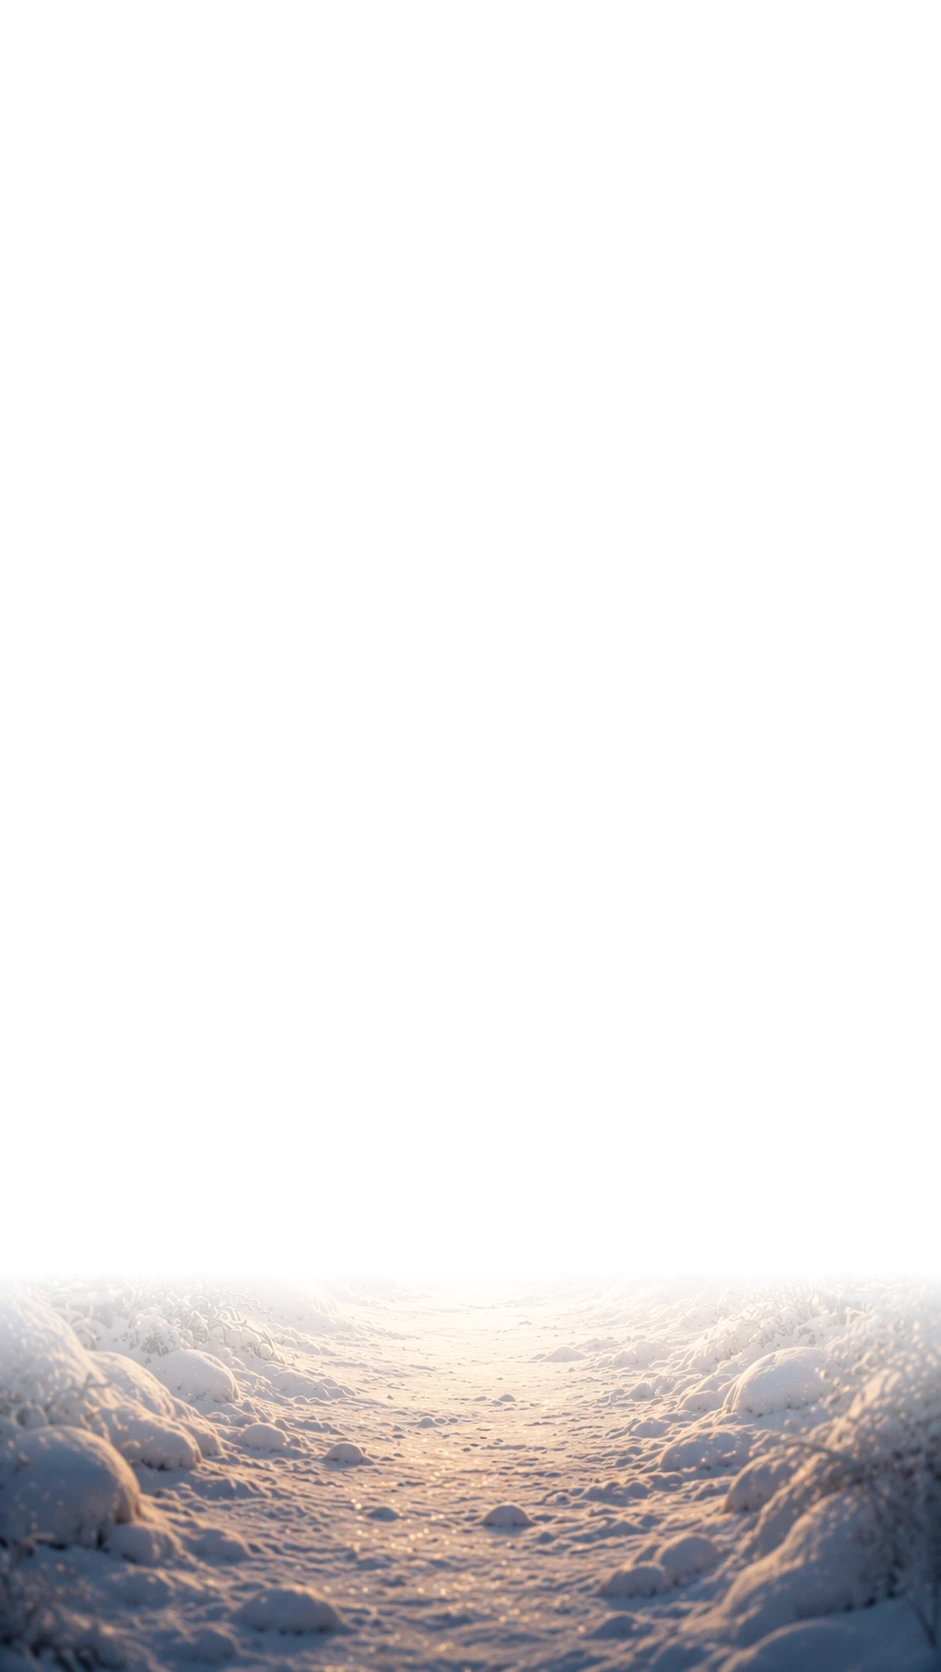
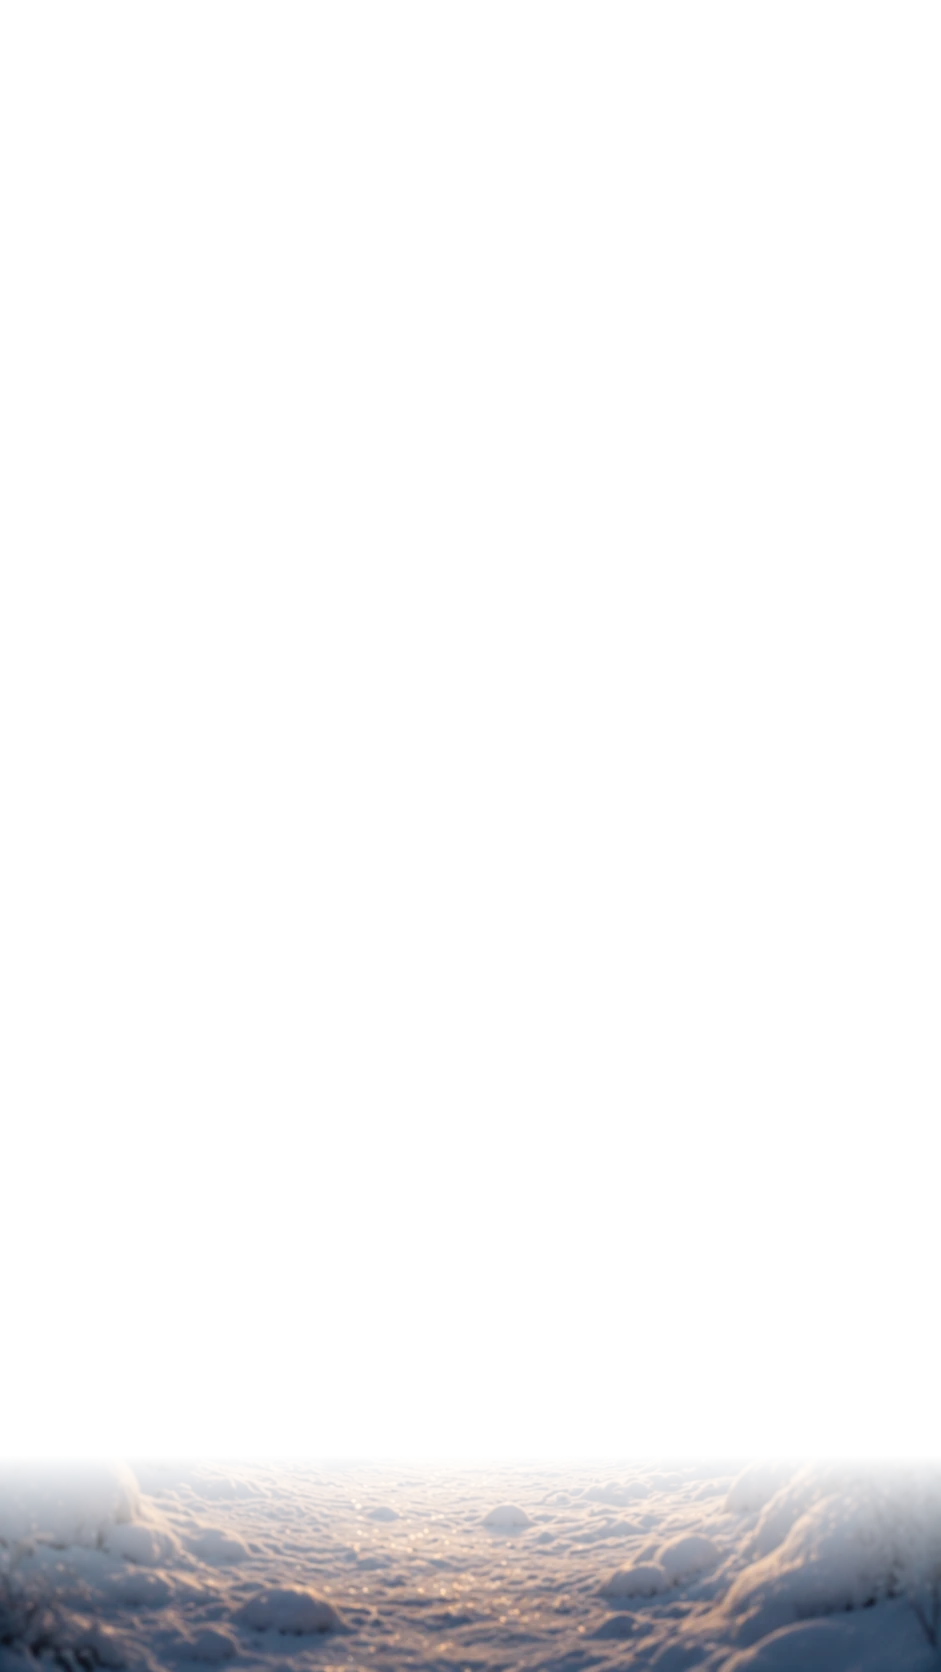
Mobile splash: reveal the couple + fix the hand-off jump
- Enlarged/lowered the tall frame opening so the couple is framed in it
  instead of hidden behind the foliage; pulled the near-snow layer down
- Hero now uses a responsive background (wide desktop / tall mobile) matching
  the splash, so the splash->home transition no longer swaps images (no jump)

Changed region(s): [[0.0, 0.7775, 1.0, 0.9641]]

diff --git a/components/Hero.tsx b/components/Hero.tsx
@@ -20,11 +20,19 @@ export default function Hero() {
 
   return (
     <section ref={ref} id="top" className="relative h-svh w-full overflow-hidden">
+      {/* Responsive background — must match the splash's (wide desktop / tall
+          mobile) so the hand-off from the portal is seamless with no jump. */}
       <motion.img
         src={hero.image}
         alt="Jesse and Francesca"
         style={{ y: bgY, scale: bgScale }}
-        className="absolute inset-0 h-full w-full object-cover"
+        className="absolute inset-0 hidden h-full w-full object-cover sm:block"
+      />
+      <motion.img
+        src={hero.imageTall}
+        alt="Jesse and Francesca"
+        style={{ y: bgY, scale: bgScale }}
+        className="absolute inset-0 h-full w-full object-cover sm:hidden"
       />
       {/* top scrim so the names read over the sky */}
       <div

diff --git a/content/wedding.ts b/content/wedding.ts
@@ -60,8 +60,10 @@ export const decoTrees = {
 };
 
 export const hero = {
-  // The revealed proposal scene — continues seamlessly from the splash.
+  // The revealed proposal scene — continues seamlessly from the splash, so it
+  // must match the splash's responsive background (wide on desktop, tall on mobile).
   image: "/photos/winter-bg.webp",
+  imageTall: "/photos/winter-bg-tall.webp",
   scrollHint: "scroll to explore",
 };
 